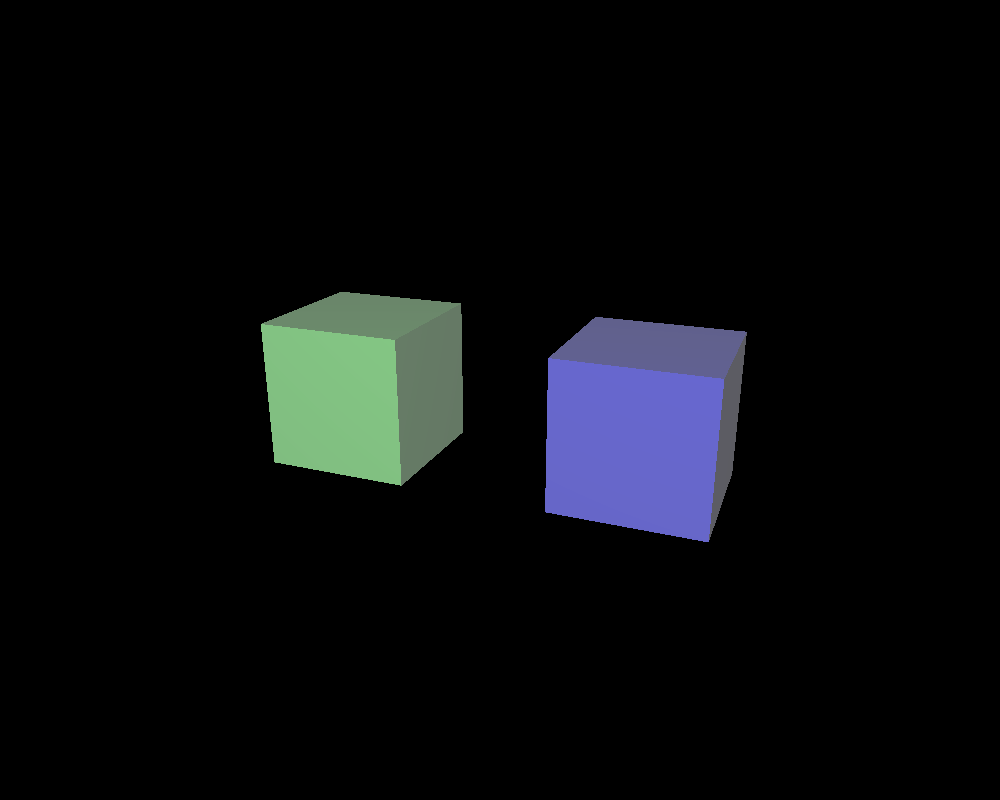
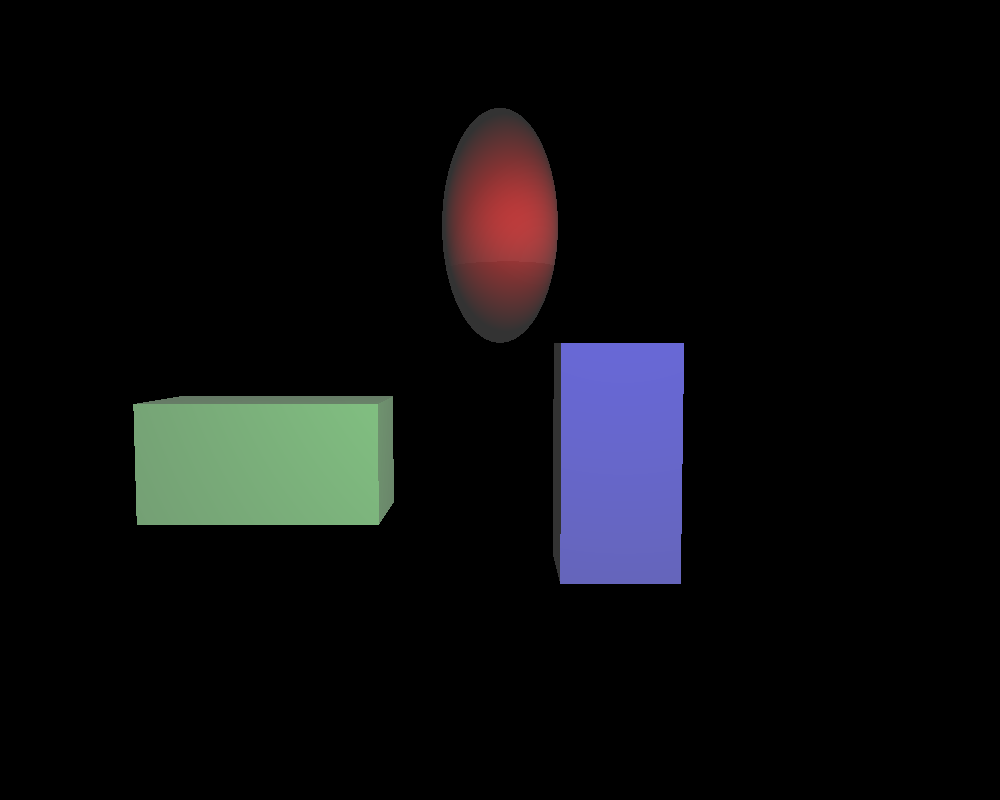
New feature to showcase scaling and scaling

Changed region(s): [[0.124, 0.125, 0.558, 0.6562], [0.527, 0.375, 0.744, 0.75]]

diff --git a/wall-e/src/ray_tracer/ray.rs b/wall-e/src/ray_tracer/ray.rs
@@ -30,10 +30,22 @@ impl Ray {
     }
 
     pub fn into_inverse_transform_ray(&self, transform: &Transform) -> Self {
-        Self::new(self.origin - transform.translation(), self.direction)
+        let p1 = self.origin.push(1.0);
+        let p2 = (self.origin + self.direction.into_inner()).push(1.0);
+        let m = transform.as_mat4().try_inverse().unwrap();
+        let new_p1 = m * p1;
+        let new_p2 = m * p2;
+
+        Self::from_points(new_p1.xyz(), new_p2.xyz())
     }
 
     pub fn into_transformed_ray(&self, transform: &Transform) -> Self {
-        Self::new(self.origin + transform.translation(), self.direction)
+        let p1 = self.origin.push(1.0);
+        let p2 = (self.origin + self.direction.into_inner()).push(1.0);
+        let m = transform.as_mat4();
+        let new_p1 = m * p1;
+        let new_p2 = m * p2;
+
+        Self::from_points(new_p1.xyz(), new_p2.xyz())
     }
 }

diff --git a/scripts/t2.py b/scripts/t2.py
@@ -11,23 +11,31 @@ root.translate(0.0, 0.0, 0.0)
 
 # geometry = Geometry("sphere")
 g1 = Geometry("cube")
-g1.translate(-1.0, 0.0, 0.0)
+g1.translate(-2.0, 0.0, 0.0)
+g1.scale(2.0, 1.0, 1.0)
 g1.set_material(green)
 
 g2 = Geometry("cube")
-g2.translate(1.0, 0.0, 0.0)
+g2.translate(2.0, 0.0, 0.0)
+g2.scale(1.0, 2.0, 1.0)
 g2.set_material(blue)
+
+g3 = Geometry("sphere")
+g3.translate(0.0, 2.0, 0.0)
+g3.scale(1.0, 2.0, 1.0)
+g3.set_material(red)
 
 light = Light()
 light.translate(2.0, 4.0, -8.0)
 
 root.add_child(g1)
 root.add_child(g2)
+root.add_child(g3)
 root.add_child(light)
 
 camera = Camera((0, 0, 5.0), (0, 0, -1), (0, 1, 0), 50)
-camera.set_position(2.0, 2.0, -5.0)
-camera.look_at(0.0, 0.0, 0.0)
+camera.set_position(0.0, 2.0, -15.0)
+camera.look_at(0.0, 1.0, 0.0)
 
 scene.set_root(root)
 # ray_trace(scene, camera, 20, 20, "image.png")

diff --git a/wall-e/src/scene/transform.rs b/wall-e/src/scene/transform.rs
@@ -1,4 +1,4 @@
-use nalgebra::{Rotation3, Vector3};
+use nalgebra::{Matrix3, Matrix4, Rotation3, Vector3, U3};
 
 #[derive(Clone, Debug)]
 pub struct Transform {
@@ -91,6 +91,24 @@ impl Transform {
             translation: new_translation,
             scale: new_scale,
         }
+    }
+
+    pub fn as_mat4(&self) -> Matrix4<f32> {
+        // Order: T - R - S
+        let mut m = Matrix4::<f32>::identity();
+        m.prepend_nonuniform_scaling_mut(&self.scale);
+        m.prepend_translation_mut(&self.translation);
+
+        m
+    }
+
+    pub fn as_mat3(&self) -> Matrix3<f32> {
+        // Order: R - S
+        let m4 = self.as_mat4();
+        let m3_view = m4.fixed_slice::<3, 3>(0, 0);
+        let m = Matrix3::from_iterator(m3_view.iter().cloned());
+
+        m
     }
 }
 

diff --git a/wall-e-py/src/lib.rs b/wall-e-py/src/lib.rs
@@ -57,7 +57,7 @@ impl PyGeometry {
         let primitive_type: PrimitiveType = primitive_type.into();
         let primitive: Box<dyn Collidable> = match primitive_type {
             PrimitiveType::Sphere => Box::new(Sphere::new(1.0)),
-            PrimitiveType::Cube => Box::new(Cube::new(1.0)),
+            PrimitiveType::Cube => Box::new(Cube::new(2.0)),
             PrimitiveType::Mesh => todo!(),
         };
         Ok(Self {

diff --git a/wall-e/src/utils.rs b/wall-e/src/utils.rs
@@ -11,5 +11,5 @@ pub fn opposite_sign(n: f32) -> f32 {
 }
 
 pub fn transform_normal(normal: Unit<Vector3<f32>>, transform: &Transform) -> Unit<Vector3<f32>> {
-    normal
+    Unit::new_normalize(transform.as_mat3() * normal.into_inner())
 }
